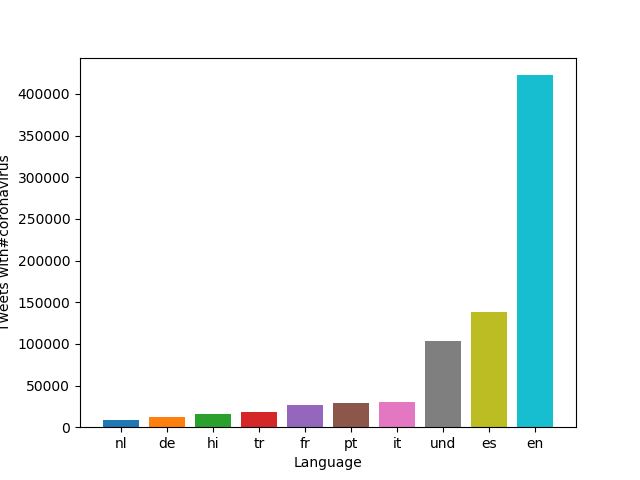
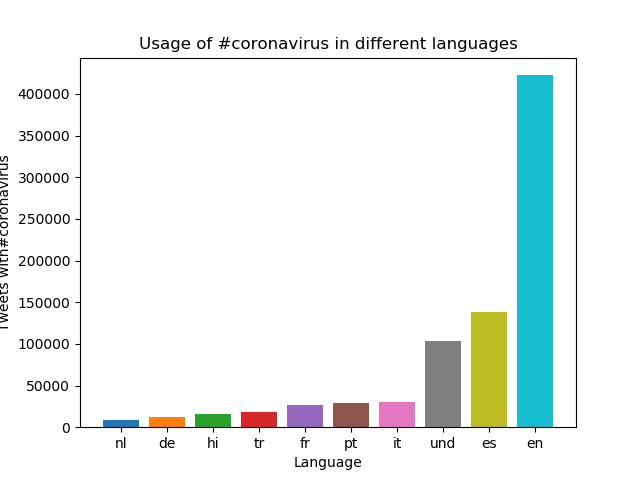
titles

Changed region(s): [[0.2188, 0.0625, 0.8125, 0.125]]

diff --git a/src/visualize.py b/src/visualize.py
@@ -37,9 +37,11 @@ for k,v in reversed(items[:10]):
 if args.input_path == "reduced.lang":
     plt.xlabel("Language")
     plt.ylabel("Tweets with" + args.key)
+    plt.title("Usage of " + args.key + " in different languages")
 else:
     plt.xlabel("Country")
     plt.ylabel("Tweets with" + args.key)
+    plt.title("Usage of " + args.key + " in different countries")
 
 # Save plot as PNG file
 plt.savefig(args.input_path + args.key + '.png')
